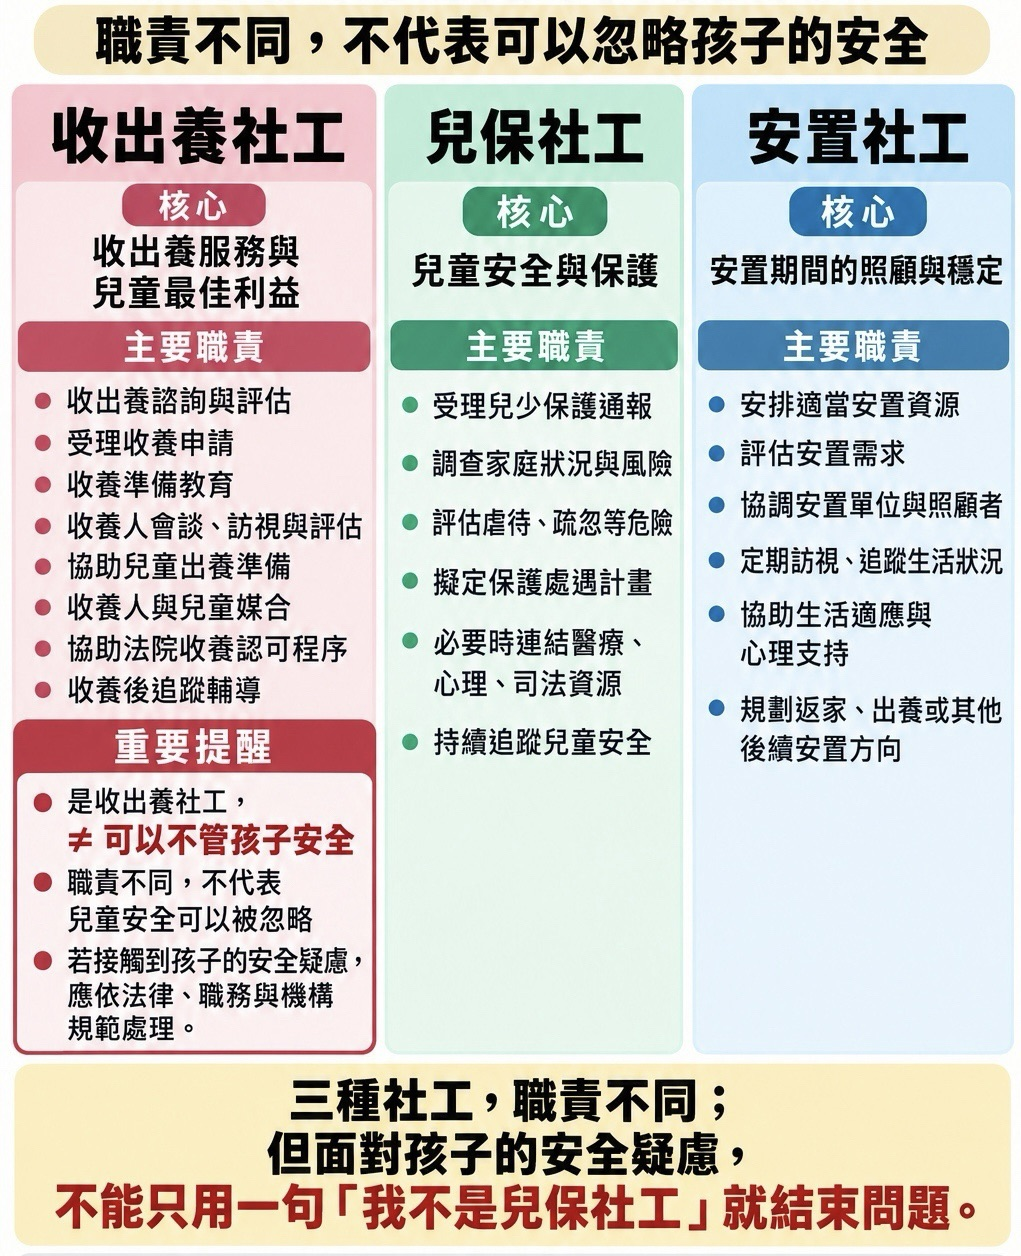
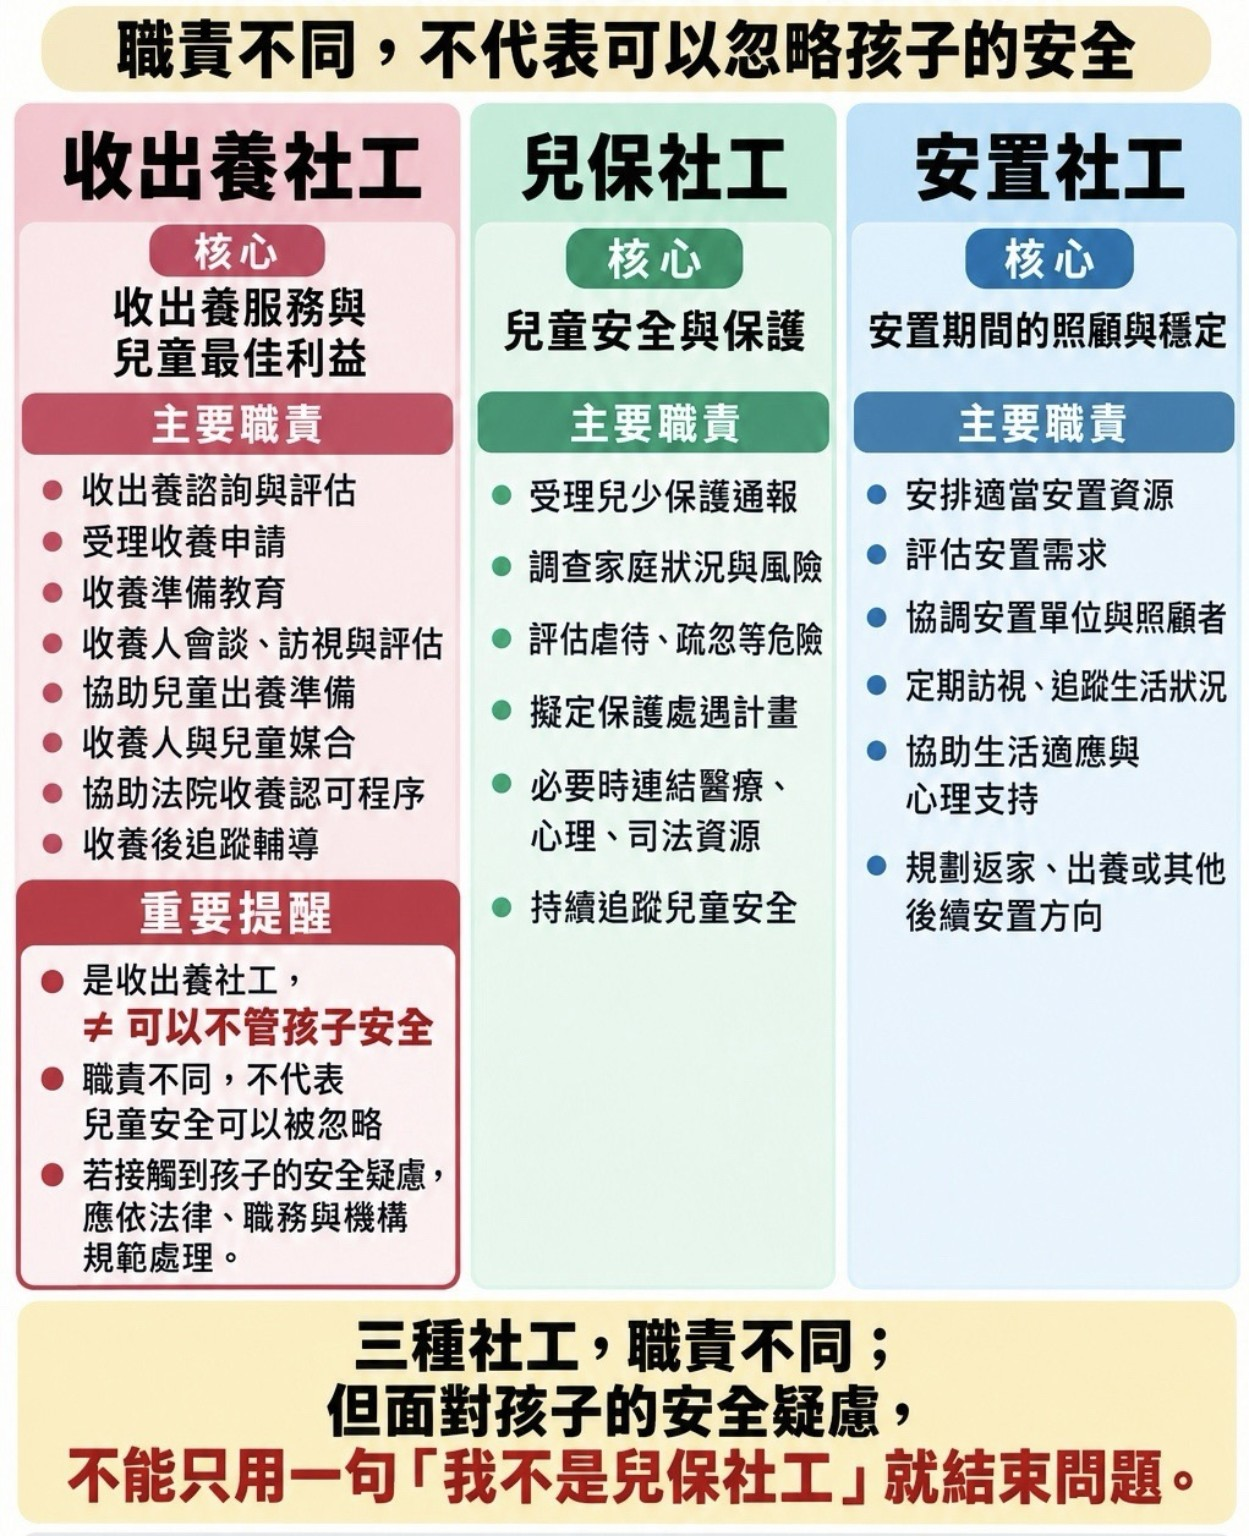
fix: use Traditional Chinese roles graphic

diff --git a/features/social-observation/adoption-social-work-child-safety-20260918/index.html b/features/social-observation/adoption-social-work-child-safety-20260918/index.html
@@ -17,7 +17,7 @@
 <header class="hero"><div class="wrap"><p class="tag">多元觀察・2026.09.18</p><h1>收出養社工與兒少安全：<br>把角色界線放回孩子身上</h1><p>不是把責任推給單一工作者，而是確認每一個交接點，都有人能看見風險、升級資訊並採取保護行動。</p></div></header>
 <main class="wrap">
 <section class="card"><b>答案先行：</b>收出養服務、居家托育訪視與兒少保護並非同一職務；但只要發現孩子可能受有立即危險，資訊不應停留在原本的工作流程。</section>
-<figure><img src="/child-advocacy-site/assets/images/social-observation/adoption-social-work-child-safety-20260918/social-work-roles-zh-Hans.png" width="1021" height="1256" loading="eager" alt="收出養、托育訪視與保護服務的角色位置圖"><figcaption><b>先分工，再接力：</b>角色不同不代表可以各自結案。重要的是：疑似風險何時被記錄、何時複核、何時轉介或通報，以及孩子是否真的被安全地看見。</figcaption></figure>
+<figure><img src="/child-advocacy-site/assets/images/social-observation/adoption-social-work-child-safety-20260918/social-work-roles-zh-Hant.jpg" width="1249" height="1536" loading="eager" alt="收出養社工、兒保社工與安置社工的繁體職責對照圖"><figcaption><b>先分工，再接力：</b>收出養、兒保與安置工作各有核心職責；若接觸到兒少安全疑慮，仍應依法律、職務與機構規範處理，不能讓風險停在原本的工作流程。</figcaption></figure>
 <section class="card"><h2>三個不能跳過的問題</h2><div class="q"><b>誰在第一時間看見不一致或警訊？</b><b>誰有權限、也有義務把風險升級？</b><b>升級後，誰確認孩子已得到實質保護？</b></div></section>
 <section class="card"><h2>收出養社工能做什麼？不能被要求什麼？</h2><p>收出養社工的核心工作包括評估、媒合、支持與服務協調；其職務不等同於全面取代保護社工或執法人員。制度設計應明確處理跨系統資訊、督導複核與緊急風險的升級路徑，避免把「分工」誤解為「資訊可以不流動」。</p></section>
 <section class="card"><h2>把制度焦點放回兒少安全</h2><p>討論個案時，應以公開判決、庭訊紀錄與可核對資料為界；尚待法院認定的事實，不應寫成既定結論。真正可被檢驗的，是制度是否提供清楚門檻，讓看見警訊的人知道下一步怎麼做。</p><p><b>持續追問：</b>風險訊號是否被記錄？督導是否複核？跨機關是否接住？這些問題，才是每個孩子都需要的安全網。</p></section>
